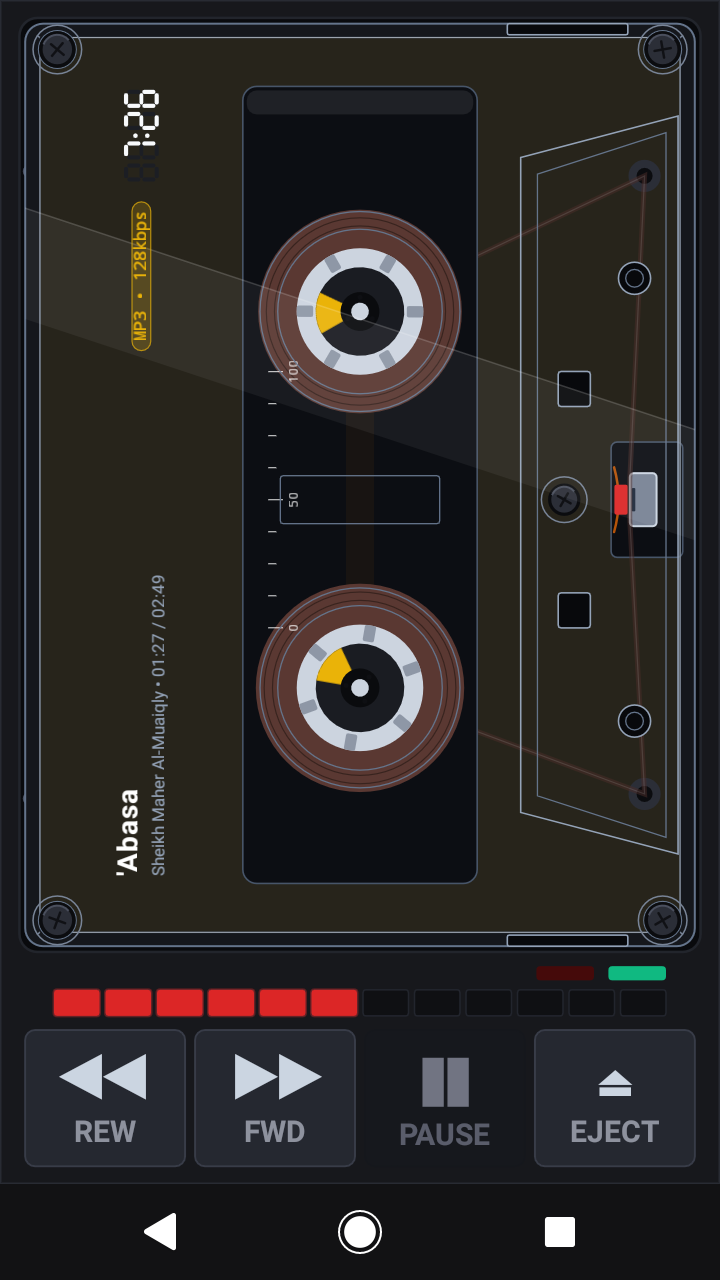
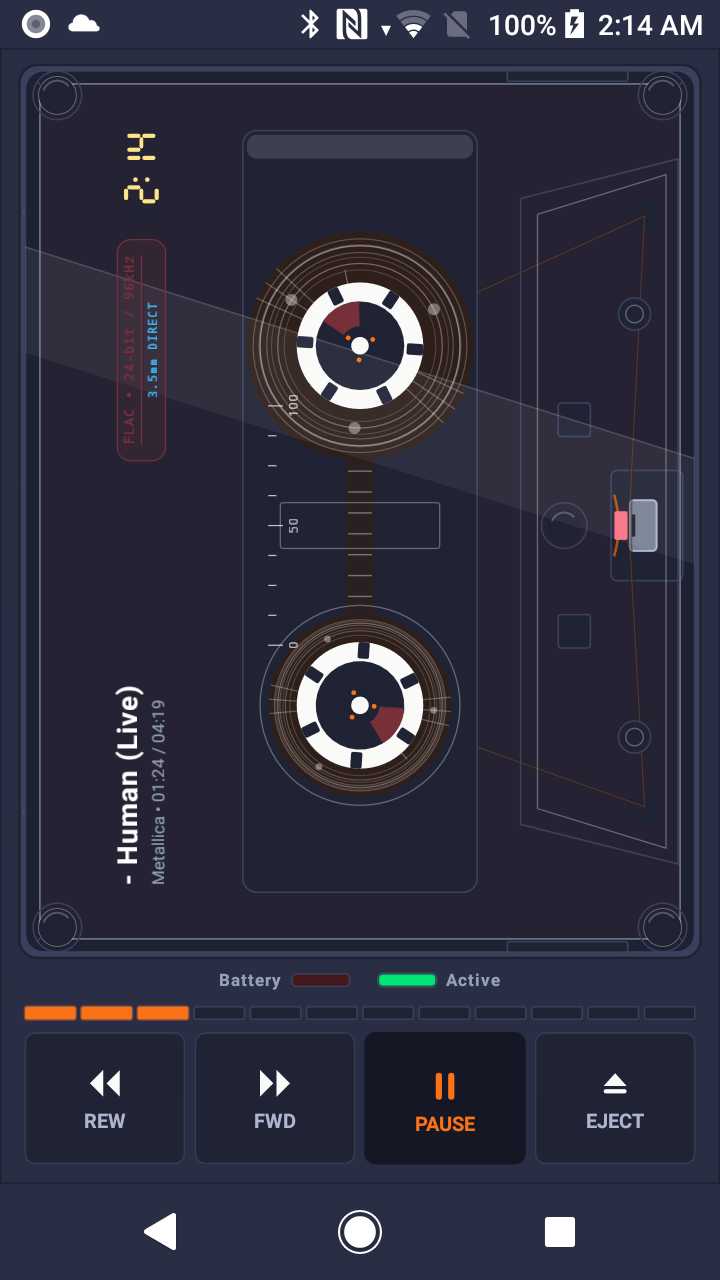
docs: update GitHub Pages live showcase for v1.3.0-alpha with kinetic reel motion, lockscreen player, RF meter, and release APK instructions

diff --git a/docs/index.html b/docs/index.html
@@ -595,14 +595,14 @@
   <section class="hero-container">
     <img src="assets/spindle_hero_banner.jpg" alt="Spindle Hero Banner" class="hero-banner">
 
-    <div class="hero-badge">100% AI-FREE · OFFLINE FIRST · ALWAYS FREE CORE</div>
+    <div class="hero-badge">v1.3.0-alpha RELEASED · 100% AI-FREE · OFFLINE FIRST · ALWAYS FREE CORE</div>
     <h1>Analog Soul. Hi-Res Heart. Zero Bloat.</h1>
     <p class="subtitle">
       The ultra-lightweight Android Home Launcher specifically crafted to repurpose compact smartphones and low-RAM DAPs into dedicated, physical-feeling audiophile music players.
     </p>
 
     <div class="hero-actions">
-      <a href="https://github.com/manaphassan/Spindle/releases" class="btn-primary">Download Free APK (v1.2.0)</a>
+      <a href="https://github.com/manaphassan/Spindle/releases/tag/v1.3.0-alpha" class="btn-primary">Download Free APK (v1.3.0-alpha)</a>
       <a href="https://github.com/manaphassan/Spindle" class="btn-secondary">View on GitHub</a>
     </div>
   </section>
@@ -721,19 +721,55 @@
     <div class="showcase-grid">
       <!-- Card 1: Cassette Deck -->
       <div class="showcase-card">
-        <img src="assets/screenshot_walkman_home.png?v=1.2.0" alt="Flagship Cassette Deck" class="showcase-img">
+        <img src="assets/screenshot_walkman_home.png?v=1.3.0-alpha" alt="Flagship Cassette Deck" class="showcase-img">
         <div class="showcase-content">
           <div class="showcase-tag">Home Launcher · Centered Spindle Deck</div>
-          <h3 class="showcase-title">1980s Japanese Audio Heritage</h3>
+          <h3 class="showcase-title">Kinetic Ribbon Reels & 2-Row Routing</h3>
           <p class="showcase-desc">
-            Centered clear acrylic spindle window with differential kinetic tape reels (4.76 cm/s), column-aligned real-time clock, Hi-Res format capsule badge, bold Line 0 title / Line 1 artist metadata, and physical mechanical transport levers.
+            Centered clear acrylic spindle window with kinetic magnetic tape ribbon traveling at 4.76 cm/s, rotating anisotropic specular sheen glare cones, 3-spoke flange cutouts, 2-row real-time output routing telemetry (FLAC • 24-bit / 96kHz + 3.5mm DIRECT), and physical transport keys.
           </p>
         </div>
       </div>
 
-      <!-- Card 2: Single Audio Now Playing -->
+      <!-- Card 2: Vintage Lock Screen Player -->
       <div class="showcase-card">
-        <img src="assets/screenshot_now_playing.png?v=1.2.0" alt="Dedicated Now Playing" class="showcase-img">
+        <img src="assets/screenshot_lockscreen.png?v=1.3.0-alpha" alt="Dedicated Vintage Lock Screen Player" class="showcase-img">
+        <div class="showcase-content">
+          <div class="showcase-tag">Hardware Keyguard · Lock Screen Deck</div>
+          <h3 class="showcase-title">Dedicated Vintage Lock Screen Player</h3>
+          <p class="showcase-desc">
+            Full-screen keyguard-bypassing transport deck awakening on screen-off. Features physical REW / FWD / PLAY / EJECT levers, dynamic 7-segment digital counter, direct hardware telemetry, and an effortless swipe-up dismissal gesture.
+          </p>
+        </div>
+      </div>
+
+      <!-- Card 3: Minimalist Radio with RF Signal Meter -->
+      <div class="showcase-card">
+        <img src="assets/screenshot_braun_radio.png?v=1.3.0-alpha" alt="Minimalist Online FM Radio with RF Meter" class="showcase-img">
+        <div class="showcase-content">
+          <div class="showcase-tag">Analog Tuner · RF Galvanometer</div>
+          <h3 class="showcase-title">Flywheel Tuner with RF Signal Meter</h3>
+          <p class="showcase-desc">
+            Acoustic concentric perforated speaker grille paired with a 3D flywheel inertia tuning dial, physical galvanometer RF signal meter needle with smooth ballistics, ruby red STEREO pilot LED, and 4-color incandescent lamp backlighting.
+          </p>
+        </div>
+      </div>
+
+      <!-- Card 4: Dual Analog VU Meters & Sound Deck -->
+      <div class="showcase-card">
+        <img src="assets/screenshot_vu_meters.png?v=1.3.0-alpha" alt="Dual Analog VU Meters" class="showcase-img">
+        <div class="showcase-content">
+          <div class="showcase-tag">Hardware DSP · Studio Sound Deck</div>
+          <h3 class="showcase-title">Dual Analog VU Meters & 10-Band EQ</h3>
+          <p class="showcase-desc">
+            Studio dual analog ballistic VU meter needles with +3dB redline and glowing peak warning LEDs, paired with a 10-Band ISO parametric equalizer with AutoEq headphone curves and Cassette Foley SoundPool engine.
+          </p>
+        </div>
+      </div>
+
+      <!-- Card 5: Single Audio Now Playing -->
+      <div class="showcase-card">
+        <img src="assets/screenshot_now_playing.png?v=1.3.0-alpha" alt="Dedicated Now Playing" class="showcase-img">
         <div class="showcase-content">
           <div class="showcase-tag">Single Audio · Now Playing</div>
           <h3 class="showcase-title">Minimalist Radial Arc & Waveform</h3>
@@ -743,38 +779,14 @@
         </div>
       </div>
 
-      <!-- Card 3: Music Catalog -->
+      <!-- Card 6: Music Catalog -->
       <div class="showcase-card">
-        <img src="assets/screenshot_catalog.png?v=1.2.0" alt="Music Catalog" class="showcase-img">
+        <img src="assets/screenshot_catalog.png?v=1.3.0-alpha" alt="Music Catalog" class="showcase-img">
         <div class="showcase-content">
           <div class="showcase-tag">Audiophile Library · ⏏ EJECT</div>
           <h3 class="showcase-title">A-Z Fast Scroller & Multi-Sort</h3>
           <p class="showcase-desc">
             Tactile vertical A-Z alphabet quick-jump index strip with haptic ticks, minimalist sorting dialog (Title, Artist, Album, Year, Duration, Bitrate), format filter chips (Hi-Res 24-bit, Lossless, MP3), and pinned floating mini-player.
-          </p>
-        </div>
-      </div>
-
-      <!-- Card 4: Minimalist Radio -->
-      <div class="showcase-card">
-        <img src="assets/screenshot_braun_radio.png?v=1.2.0" alt="Minimalist Online FM Radio" class="showcase-img">
-        <div class="showcase-content">
-          <div class="showcase-tag">Online Streaming · Minimalist Tuner</div>
-          <h3 class="showcase-title">Bauhaus Minimalist FM Radio</h3>
-          <p class="showcase-desc">
-            7-ring concentric acoustic perforated speaker grille, 3D cylindrical ribbed tuning thumbwheel with detent vibration ticks, and vintage green backlit LCD matrix readout playing live low-latency streams.
-          </p>
-        </div>
-      </div>
-
-      <!-- Card 5: DJ Mixer EQ & Themes -->
-      <div class="showcase-card">
-        <img src="assets/screenshot_dj_eq.png" alt="Dark DJ Mixer Console" class="showcase-img">
-        <div class="showcase-content">
-          <div class="showcase-tag">Hardware DSP · 3 Themes</div>
-          <h3 class="showcase-title">Rotary Pots & E-Ink DAP Themes</h3>
-          <p class="showcase-desc">
-            Studio rotary potentiometers modulating Android's hardware Equalizer, 12-segment dB LED VU meter, and full support for 3 curated themes: Audiophile Dark, Clean Light, and Monochrome E-Ink for e-paper music players.
           </p>
         </div>
       </div>
@@ -801,15 +813,16 @@
         </ul>
       </div>
 
-      <div class="roadmap-card">
-        <div class="roadmap-version">v1.3.0-LITE</div>
-        <div class="roadmap-status">🔨 In Progress</div>
+      <div class="roadmap-card" style="border-color: var(--accent-emerald);">
+        <div class="roadmap-version">v1.3.0-alpha</div>
+        <div class="roadmap-status" style="color: var(--accent-emerald);">✅ Alpha Released</div>
         <ul class="roadmap-items">
-          <li>Dedicated <code>:app-lite</code> Module</li>
-          <li>Android 4.4 KitKat (API 19) Support</li>
-          <li>320×480 (HVGA 3:2) Geometry Scaling</li>
-          <li>Dual MediaPlayer Gapless Engine</li>
-          <li>Hardware Camera Key & Sport Mode</li>
+          <li>Kinetic Magnetic Ribbon & Reel Motion</li>
+          <li>24-bit 96kHz FLAC Bit-Perfect Audio</li>
+          <li>2-Row Real-Time Output Routing Badges</li>
+          <li>Dedicated Vintage Lock Screen Player</li>
+          <li>Analog FM Radio with Ballistic RF Meter</li>
+          <li>Dedicated <code>:app-lite</code> Module (1.6 MB)</li>
         </ul>
       </div>
 
@@ -912,12 +925,12 @@
 # 1. Clone the repository<br/>
 git clone https://github.com/manaphassan/Spindle.git<br/>
 cd Spindle<br/><br/>
-# 2. Compile debug APK<br/>
-./gradlew assembleDebug<br/><br/>
-# 3. Install to connected device<br/>
-adb install -r app/build/outputs/apk/debug/app-debug.apk<br/><br/>
+# 2. Compile optimized release APK (4.8 MB with R8 & ProGuard)<br/>
+./gradlew assembleRelease<br/><br/>
+# 3. Install to connected device or DAP<br/>
+adb install -r app/build/outputs/apk/release/app-release.apk<br/><br/>
 # 4. Launch Spindle Home<br/>
-adb shell am start -n com.hana.spindle.debug/com.hana.spindle.ui.MainActivity
+adb shell am start -n com.hana.spindle/com.hana.spindle.ui.MainActivity
     </div>
   </section>
 
